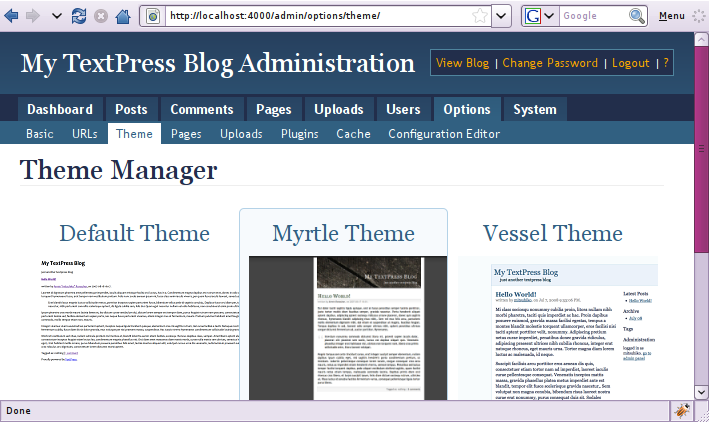
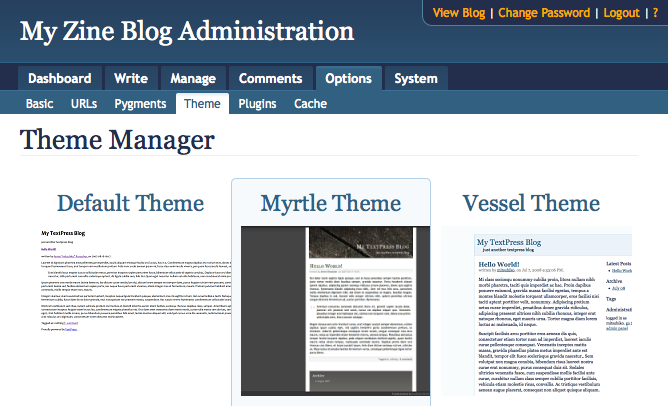
update screenshots in the online docs

diff --git a/zine/docs/en/introduction.rst b/zine/docs/en/introduction.rst
@@ -8,8 +8,8 @@ introduction to Zine.
 Creating your First Post
 ------------------------
 
-You can write new blog entries (called posts) by going to the "New Post"
-page.  Either go to "Posts -> Write Post" or click on the "New Post" link
+You can write new blog entries (called posts) by going to the "New Entry"
+page.  Either go to "Write -> Entry" or click on the "New Entry" link
 on the Dashboard.
 
 After doing that you should see a new page where you can fill out the
